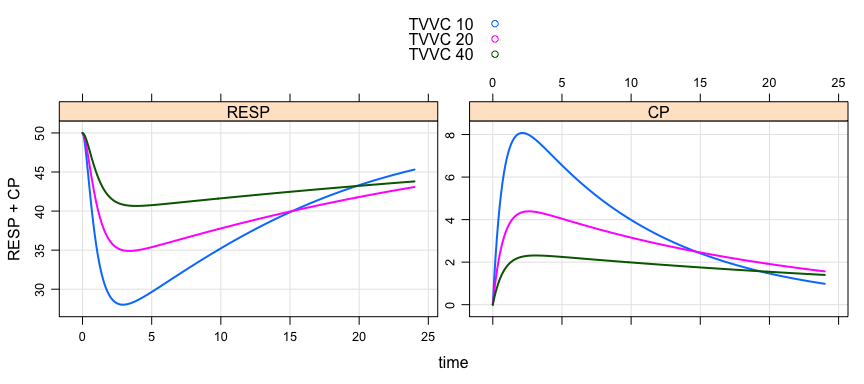
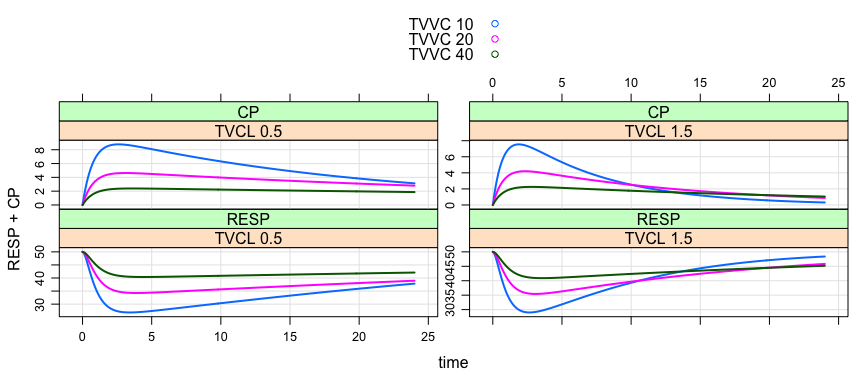
adding travis

Changed region(s): [[0.0, 0.25, 1.0, 0.8125], [0.0312, 0.7188, 0.0625, 0.8125]]

diff --git a/README.md b/README.md
@@ -87,7 +87,7 @@ out
 ```
 
     . Model:  demo.cpp 
-    . Date:   Tue Mar 15 21:55:45 2016 
+    . Date:   Tue Mar 15 22:02:48 2016 
     . Dim:    1202 x 6 
     . Time:   0 to 120 
     . ID:     1 
@@ -109,7 +109,7 @@ plot(out, CP+RESP~.)
 out <- mod %>%
   ev(amt=100, ii=24, addl=2) %>%
   Req(CP,RESP) %>%
-  knobs(TVVC=c(10,20,40), CL=c(1,2))
+  knobs(TVVC=c(10,20,40), TVCL=c(0.5,1.5))
 ```
 
 ``` r
